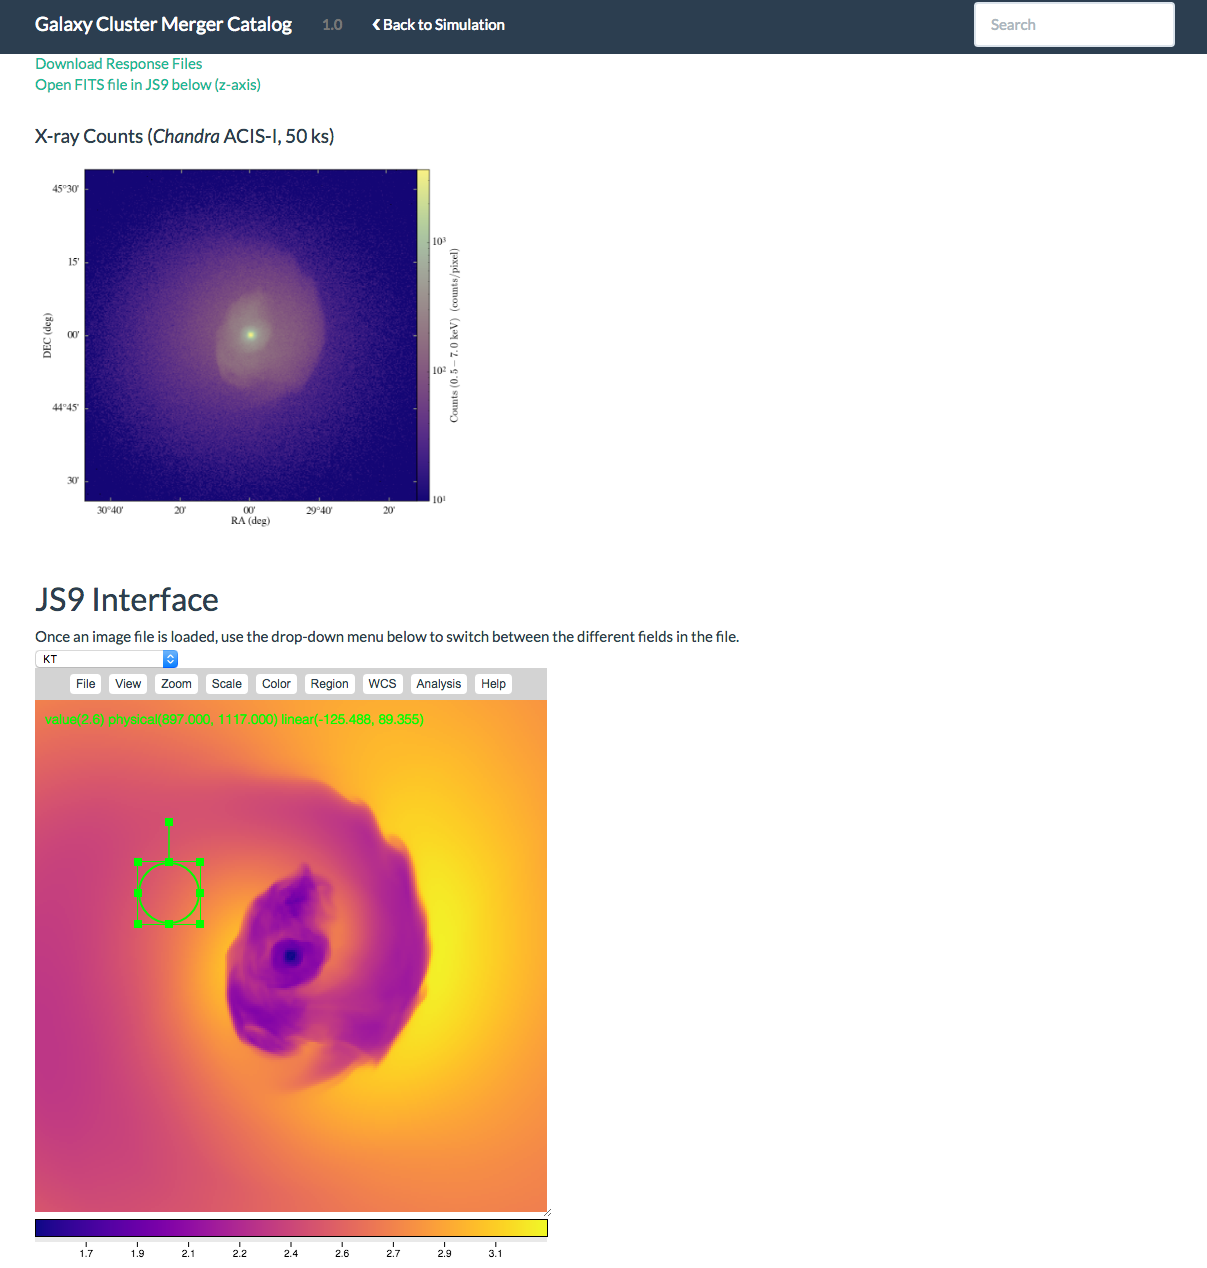
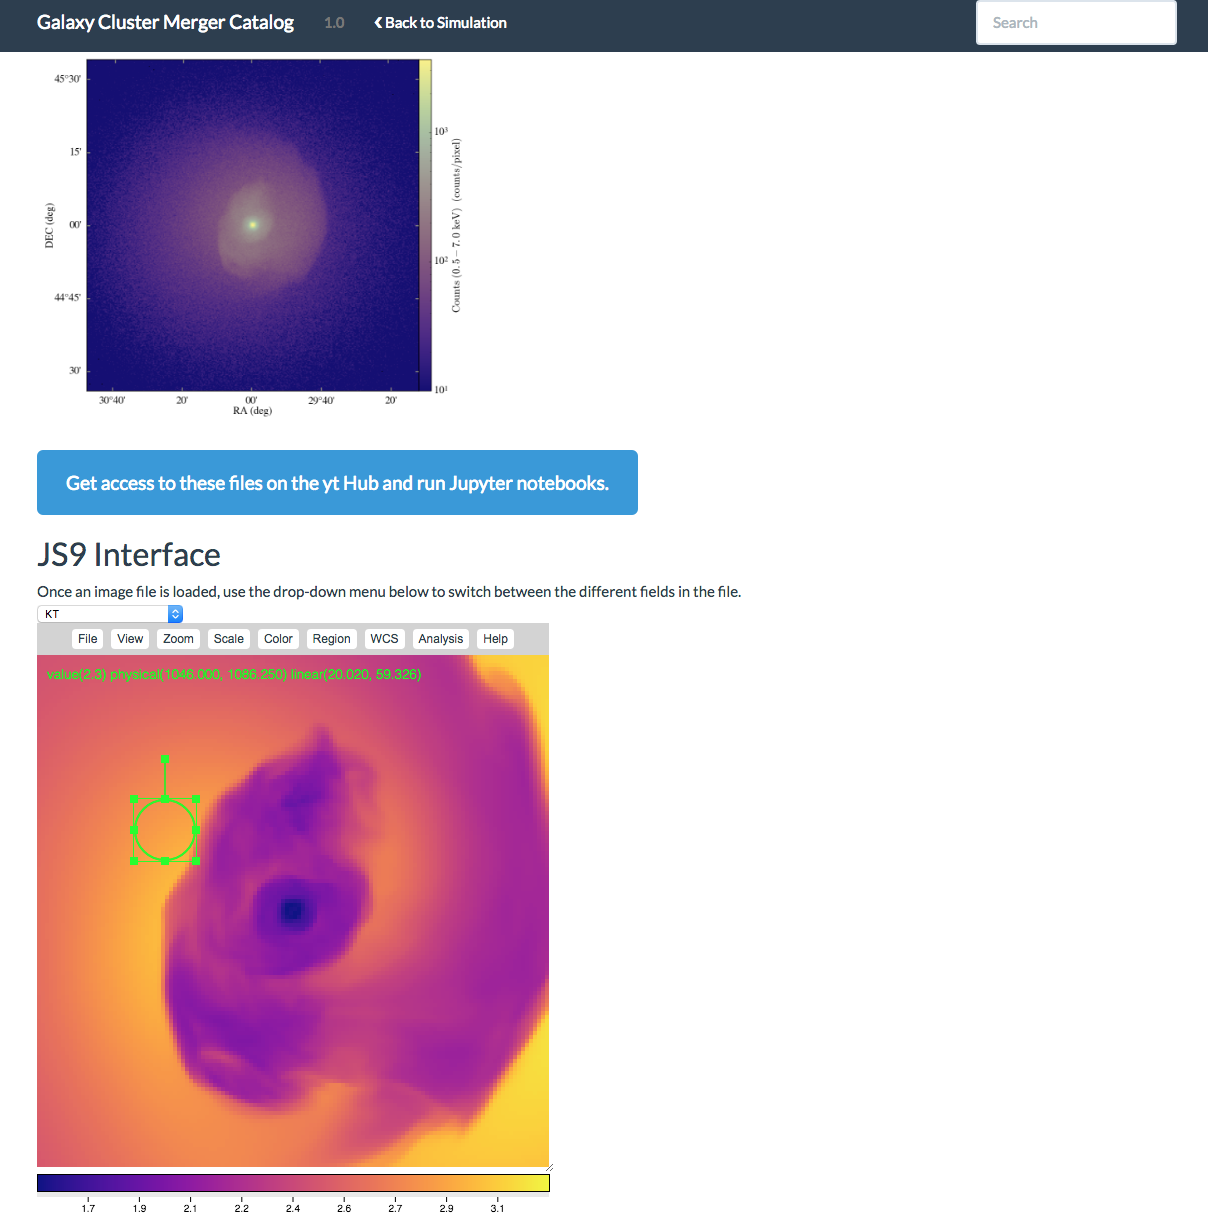
Updating the epoch page info for notebook stuff

Changed region(s): [[0.0307, 0.0, 0.6131, 0.9918], [0.797, 0.0, 0.9809, 0.031]]

diff --git a/paper/ms.tex b/paper/ms.tex
@@ -180,14 +180,14 @@ For a number of the simulations, fields representing the mass fraction of gas fr
 \begin{figure*}
 \begin{center}
 \includegraphics[width=0.9\textwidth]{epoch_page.png}
-\caption{An example ``epoch page''. Links are provided to similar simulations with different physics at the same epoch at the top of the page. For each data type, figures of some of the fields are shown and links to download the data or display in JS9 are provided. This particular page is linked at \url{http://gcmc.hub.yt/virgo/novisc/0046/index.html}.}
+\caption{An example ``epoch page''. Links are provided to similar simulations with different physics at the same epoch at the top of the page. For each data type, figures of some of the fields are shown and links to download the data or display in JS9 are provided. This particular page is linked at \url{http://gcmc.hub.yt/virgo/novisc/0046.html}.}
 \end{center}
 \end{figure*}
 
 \begin{figure*}
 \begin{center}
 \includegraphics[width=0.9\textwidth]{epoch_page2.png}
-\caption{The bottom of an ``epoch page'', showing the simulated X-ray event file and the JS9 interface with a projection file loaded, and a circular region selected. This particular page is linked at \url{http://gcmc.hub.yt/virgo/novisc/0046/index.html}.}
+\caption{The bottom of an ``epoch page'', showing the simulated X-ray event file, the link to the Jupyter notebook directions, and the JS9 interface with a projection file loaded, and a circular region selected. This particular page is linked at \url{http://gcmc.hub.yt/virgo/novisc/0046.html}.}
 \end{center}
 \end{figure*}
 
